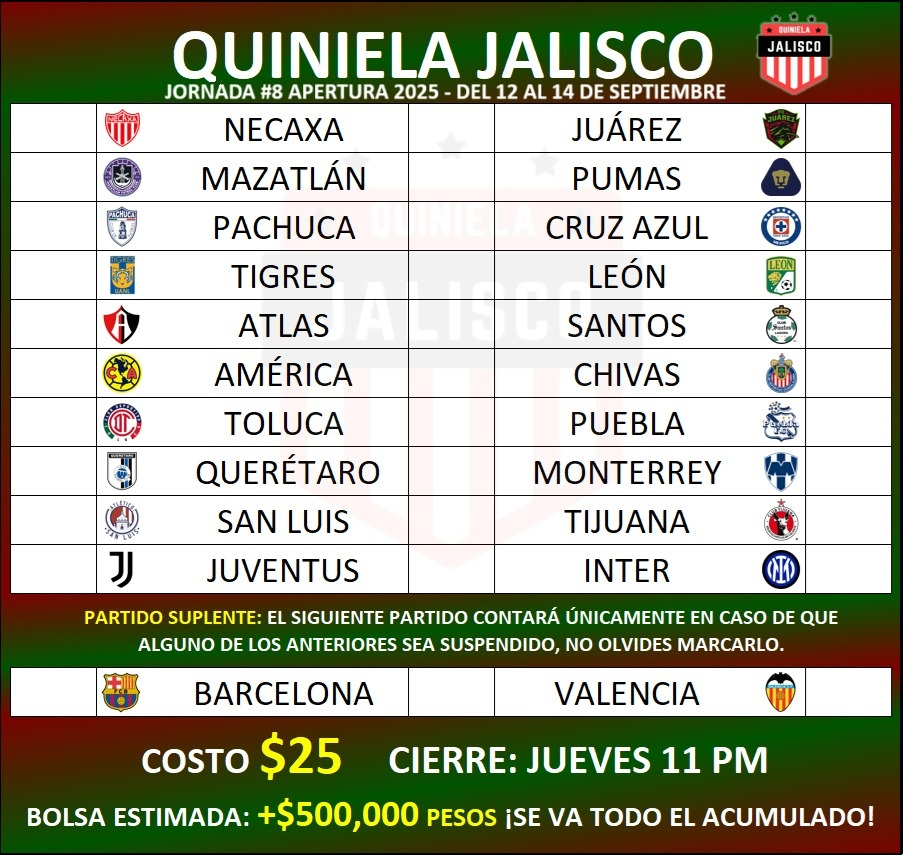
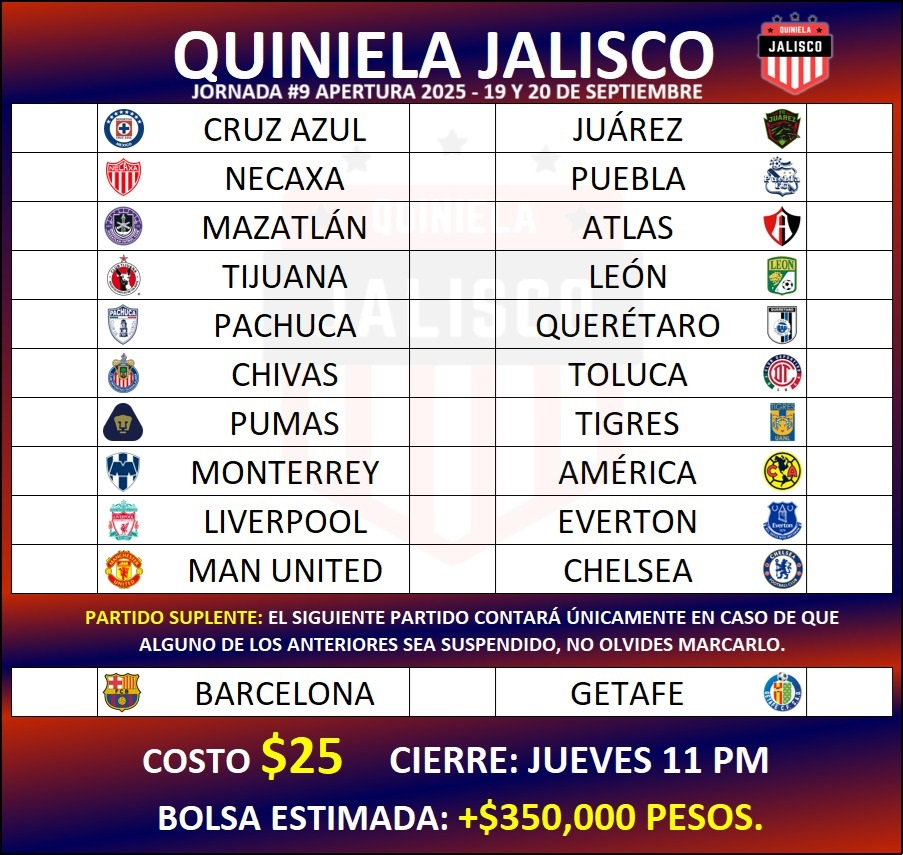
Jornada 9 A25

diff --git a/11/styles11.css b/11/styles11.css
@@ -95,8 +95,8 @@ body{
     margin-top: 8.5%;
     border-top: solid 1px black;
     border-radius: 0 0 14px 14px;
-    background: -webkit-linear-gradient(0.49turn, rgb(24 68 0) -7%, rgb(103 16 0) 80%);
-    background: linear-gradient(0.49turn, rgb(24 68 0) -7%, rgb(103 16 0) 80%);
+    background: -webkit-linear-gradient(0.49turn, rgb(21 6 78) -7%, rgb(103 16 0) 80%);
+    background: linear-gradient(0.49turn, rgb(21 6 78) -7%, rgb(103 16 0) 80%);
 }
 
 .text-lg{
@@ -293,7 +293,7 @@ h6{
 }
 
 #cantidad:before{
-    content:'$500,000 pesos \A¡Se reparte todo el acumulado!';
+    content:'$350,000 pesos';
     color: yellow;
     white-space:pre;
 }
